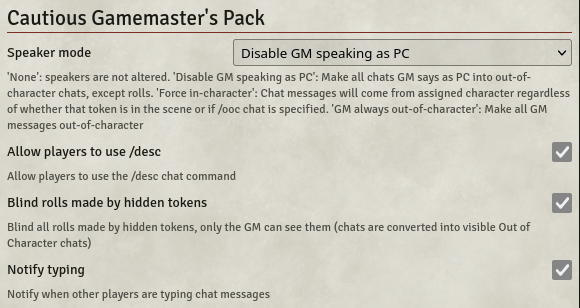
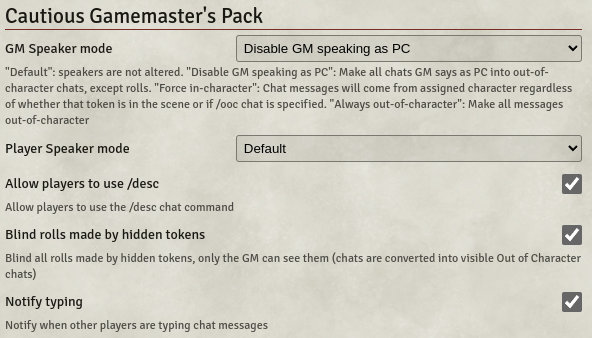
Added separate GM and player speaker modes.

Changed region(s): [[0.0, 0.0, 1.0, 1.0]]

diff --git a/module/scripts/settings.js b/module/scripts/settings.js
@@ -15,25 +15,36 @@ export const CGMP_OPTIONS = {
 	ALLOW_PLAYERS_TO_USE_DESC: "allowPlayersToUseDesc",
 	BLIND_HIDDEN_TOKENS: "blindHiddenTokens",
 	NOTIFY_TYPING: "notifyTyping",
-	SPEAKER_MODE: "speakerMode"
+	GM_SPEAKER_MODE: "gmSpeakerMode",
+	PLAYER_SPEAKER_MODE: "playerSpeakerMode"
 };
 
 const CGMP_LEGACY_OPTIONS = {
-	DISABLE_GM_AS_PC: "disableGMAsPC"
+	DISABLE_GM_AS_PC: "disableGMAsPC",
+	SPEAKER_MODE: "speakerMode"
 };
 
 export const CGMP_SPEAKER_MODE = {
-	NONE: 0,
+	DEFAULT: 0,
 	DISABLE_GM_AS_PC: 1,
-	FORCE_IN_CHARACTER_ASSIGNED: 2,
-	GM_ALWAYS_OOC: 3
+	FORCE_IN_CHARACTER: 2,
+	ALWAYS_OOC: 3
 };
 
 export class CGMPSettings {
 	static registerSettings() {
+		const gmSpeakerModeChoices = {
+			[CGMP_SPEAKER_MODE.DEFAULT]: game.i18n.localize("cgmp.speaker-mode.default-s"),
+			[CGMP_SPEAKER_MODE.DISABLE_GM_AS_PC]: game.i18n.localize("cgmp.speaker-mode.disable-gm-as-pc-s"),
+			[CGMP_SPEAKER_MODE.FORCE_IN_CHARACTER]: game.i18n.localize("cgmp.speaker-mode.force-in-character-s"),
+			[CGMP_SPEAKER_MODE.ALWAYS_OOC]: game.i18n.localize("cgmp.speaker-mode.always-ooc-s")
+		};
 
-		// Legacy setting, no longer accessible via UI.
-		// Left here so it can be read and converted to the new Speaker Mode on startup.
+		const playerSpeakerModeChoices = deepClone(gmSpeakerModeChoices);
+		delete playerSpeakerModeChoices[CGMP_SPEAKER_MODE.DISABLE_GM_AS_PC];
+
+		// Legacy settings, no longer accessible via UI.
+		// Left here so they can be read and converted to the new Speaker Modes on startup.
 		game.settings.register("CautiousGamemastersPack", CGMP_LEGACY_OPTIONS.DISABLE_GM_AS_PC, {
 			scope: "world",
 			config: false,
@@ -41,20 +52,33 @@ export class CGMPSettings {
 			type: Boolean
 		});
 
-		const speakerModeChoices = {};
-		speakerModeChoices[CGMP_SPEAKER_MODE.NONE] = game.i18n.localize("cgmp.speaker-mode.none-s");
-		speakerModeChoices[CGMP_SPEAKER_MODE.DISABLE_GM_AS_PC] = game.i18n.localize("cgmp.speaker-mode.disable-gm-as-pc-s");
-		speakerModeChoices[CGMP_SPEAKER_MODE.FORCE_IN_CHARACTER_ASSIGNED] = game.i18n.localize("cgmp.speaker-mode.force-in-character-assigned-s");
-		speakerModeChoices[CGMP_SPEAKER_MODE.GM_ALWAYS_OOC] = game.i18n.localize("cgmp.speaker-mode.gm-always-ooc-s");
+		game.settings.register("CautiousGamemastersPack", CGMP_LEGACY_OPTIONS.SPEAKER_MODE, {
+			scope: "world",
+			config: false,
+			default: (CGMPSettings.getSetting(CGMP_LEGACY_OPTIONS.DISABLE_GM_AS_PC) ? CGMP_SPEAKER_MODE.DISABLE_GM_AS_PC : CGMP_SPEAKER_MODE.DEFAULT),
+			type: Number,
+			choices: gmSpeakerModeChoices
+		});
 
-		game.settings.register("CautiousGamemastersPack", CGMP_OPTIONS.SPEAKER_MODE, {
-			name: "cgmp.speaker-mode-s",
-			hint: "cgmp.speaker-mode-l",
+		// Active settings...
+
+		game.settings.register("CautiousGamemastersPack", CGMP_OPTIONS.GM_SPEAKER_MODE, {
+			name: "cgmp.gm-speaker-mode-s",
+			hint: "cgmp.gm-speaker-mode-l",
 			scope: "world",
 			config: true,
-			default: (CGMPSettings.getSetting(CGMP_LEGACY_OPTIONS.DISABLE_GM_AS_PC) ? CGMP_SPEAKER_MODE.DISABLE_GM_AS_PC : CGMP_SPEAKER_MODE.NONE),
+			default: CGMPSettings.convertGmSpeakerModeLegacySetting(),
 			type: Number,
-			choices: speakerModeChoices
+			choices: gmSpeakerModeChoices
+		});
+
+		game.settings.register("CautiousGamemastersPack", CGMP_OPTIONS.PLAYER_SPEAKER_MODE, {
+			name: "cgmp.player-speaker-mode-s",
+			scope: "world",
+			config: true,
+			default: CGMPSettings.convertPlayerSpeakerModeLegacySetting(),
+			type: Number,
+			choices: playerSpeakerModeChoices
 		});
 
 		game.settings.register("CautiousGamemastersPack", CGMP_OPTIONS.ALLOW_PLAYERS_TO_USE_DESC, {
@@ -84,6 +108,16 @@ export class CGMPSettings {
 			type: Boolean,
 			onChange: () => window.location.reload()
 		});
+	}
+
+	static convertGmSpeakerModeLegacySetting() {
+		const legacySpeakerMode = CGMPSettings.getSetting(CGMP_LEGACY_OPTIONS.SPEAKER_MODE);
+		return legacySpeakerMode ?? (CGMPSettings.getSetting(CGMP_LEGACY_OPTIONS.DISABLE_GM_AS_PC) ? CGMP_SPEAKER_MODE.DISABLE_GM_AS_PC : CGMP_SPEAKER_MODE.DEFAULT);
+	}
+
+	static convertPlayerSpeakerModeLegacySetting() {
+		return ((CGMP_SPEAKER_MODE.FORCE_IN_CHARACTER === CGMPSettings.getSetting(CGMP_LEGACY_OPTIONS.SPEAKER_MODE)) ?
+			CGMP_SPEAKER_MODE.FORCE_IN_CHARACTER : CGMP_SPEAKER_MODE.DEFAULT);
 	}
 
 	static getSetting(option) {

diff --git a/module/scripts/chat-resolver.js b/module/scripts/chat-resolver.js
@@ -116,12 +116,12 @@ export class ChatResolver {
 		return [ undefined, undefined ];
 	}
 
-	static _convertToGmSpeaker(messageData) {
+	static _convertToOoc(messageData) {
 		// For all types of messages, change the speaker to the GM.
 		// Convert in-character message to out-of-character, and remove the actor and token.
-		const newType = (CONST.CHAT_MESSAGE_TYPES.IC === messageData.type ? CONST.CHAT_MESSAGE_TYPES.OOC : messageData.type);
-		const newActor = (CONST.CHAT_MESSAGE_TYPES.IC === messageData.type ? null : messageData.speaker.actor);
-		const newToken = (CONST.CHAT_MESSAGE_TYPES.IC === messageData.type ? null : messageData.speaker.token);
+		const newType = ((CONST.CHAT_MESSAGE_TYPES.IC === messageData.type) ? CONST.CHAT_MESSAGE_TYPES.OOC : messageData.type);
+		const newActor = ((CONST.CHAT_MESSAGE_TYPES.IC === messageData.type) ? null : messageData.speaker.actor);
+		const newToken = ((CONST.CHAT_MESSAGE_TYPES.IC === messageData.type) ? null : messageData.speaker.token);
 
 		messageData.update({
 			type: newType,
@@ -172,7 +172,7 @@ export class ChatResolver {
 			} else {
 				// Convert in-character messages to out-of-character.
 				// We're assuming that the GM wanted to type something to the chat but forgot to deselect a token.
-				this._convertToGmSpeaker(messageData);
+				this._convertToOoc(messageData);
 			}
 		}
 	}
@@ -181,23 +181,24 @@ export class ChatResolver {
 		if (messageData.roll || messageData.flags?.damageLog || messageData.flags?.["damage-log"] || !messageData.speaker)
 			return;
 
-		switch (CGMPSettings.getSetting(CGMP_OPTIONS.SPEAKER_MODE)) {
+		const speakerMode = CGMPSettings.getSetting(game.user.isGM ? CGMP_OPTIONS.GM_SPEAKER_MODE : CGMP_OPTIONS.PLAYER_SPEAKER_MODE);
+
+		switch (speakerMode) {
 			case CGMP_SPEAKER_MODE.DISABLE_GM_AS_PC:
 				if (game.user.isGM) {
 					const token = canvas.tokens.get(messageData.speaker.token);
 					if (token?.actor?.hasPlayerOwner) {
-						this._convertToGmSpeaker(messageData);
+						this._convertToOoc(messageData);
 					}
 				}
 				break;
 
-			case CGMP_SPEAKER_MODE.GM_ALWAYS_OOC:
-				if (game.user.isGM)
-					this._convertToGmSpeaker(messageData);
+			case CGMP_SPEAKER_MODE.FORCE_IN_CHARACTER:
+				this._convertToInCharacter(messageData);
 				break;
 
-			case CGMP_SPEAKER_MODE.FORCE_IN_CHARACTER_ASSIGNED:
-				this._convertToInCharacter(messageData);
+			case CGMP_SPEAKER_MODE.ALWAYS_OOC:
+				this._convertToOoc(messageData);
 				break;
 		}
 

diff --git a/module/scripts/main.js b/module/scripts/main.js
@@ -15,7 +15,7 @@ import { CGMPSettings, CGMP_OPTIONS } from "./settings.js";
 import { TypingNotifier } from "./typing-notifier.js";
 import { ChatResolver } from "./chat-resolver.js";
 
-Hooks.once('init', () => {
+Hooks.once('setup', () => {
 	CGMPSettings.registerSettings();
 	game.cgmp = {};
 

diff --git a/README.md b/README.md
@@ -15,11 +15,11 @@ Please note that v0.2.0 was called "Cautious Gamemaster's Pack 2", but since own
 
 ![](settings.png)
 
-* **Speaker mode**
-  * **None**: Speakers are not altered.
+* **GM speaker mode / Player speaker mode**
+  * **Default**: Speakers are not altered.
   * **Disable GM speaking as PC**: If the GM has a PC token selected and types a message in the chat box, this will prevent the message appearing as if it came from that PC.  It will be sent as an out-of-character message instead.
   * **Force in-character**: Chat messages will come from assigned character regardless of whether that token is in the scene, or if `/ooc` chat is specified.
-  * **GM always out-of-character**: Chat messages made by the GM will always be sent as out-of-character messages.
+  * **Always out-of-character**: Chat messages will always be sent as out-of-character messages.
 * **Allow players to use /desc** - Usually only the GM can use the `/desc` command.  This settings also allows the players to use it.
 * **Blind rolls made by hidden tokens** - This turns all rolls made by hidden tokens into blind rolls.
 * **Notify typing** - Notify whether the other players are typing chat messages...<p>![](notify_typing.gif)</p>
